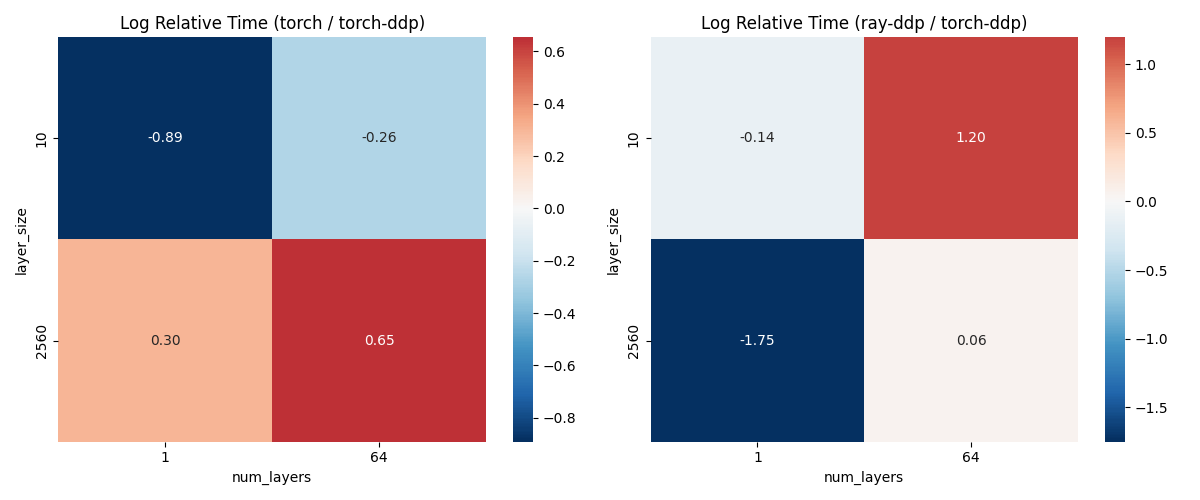
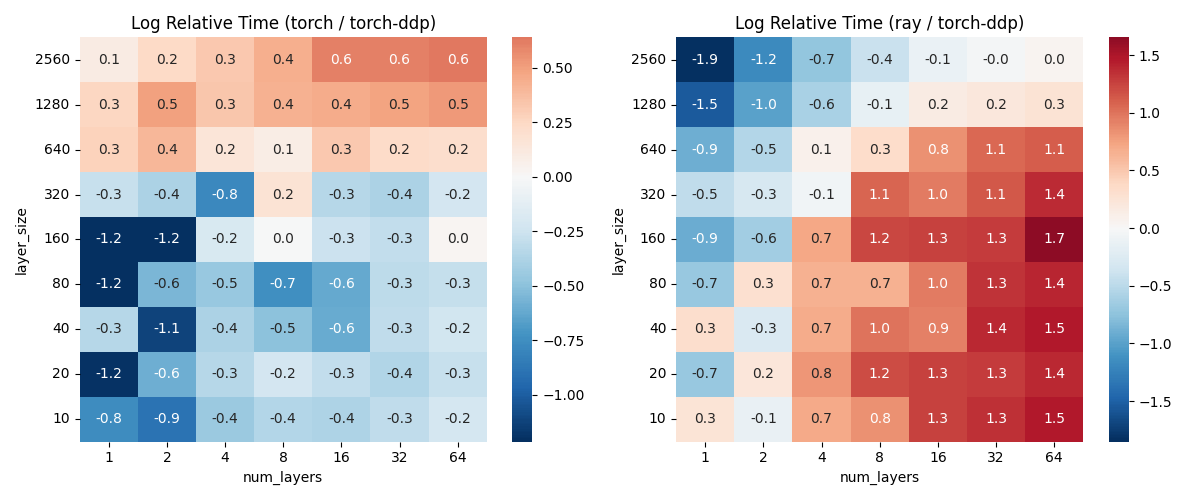
refactor: Heatmap

diff --git a/python/ray/experimental/ddp/src/scripts/plot_heatmap.py b/python/ray/experimental/ddp/src/scripts/plot_heatmap.py
@@ -35,15 +35,31 @@ plt.figure(figsize=(12, 5))
 plt.subplot(1, 2, 1)
 pivot_torch = df.pivot(
     index="layer_size", columns="num_layers", values="relative_torch"
+).sort_index(ascending=False)
+sns.heatmap(
+    pivot_torch,
+    annot=True,
+    fmt=".1f",
+    cmap="RdBu_r",
+    center=0,
 )
-sns.heatmap(pivot_torch, annot=True, fmt=".2f", cmap="RdBu_r", center=0)
 plt.title("Log Relative Time (torch / torch-ddp)")
+plt.yticks(rotation=0)
 
 # Table 2: relative_ray
 plt.subplot(1, 2, 2)
-pivot_ray = df.pivot(index="layer_size", columns="num_layers", values="relative_ray")
-sns.heatmap(pivot_ray, annot=True, fmt=".2f", cmap="RdBu_r", center=0)
-plt.title("Log Relative Time (ray-ddp / torch-ddp)")
+pivot_ray = df.pivot(
+    index="layer_size", columns="num_layers", values="relative_ray"
+).sort_index(ascending=False)
+sns.heatmap(
+    pivot_ray,
+    annot=True,
+    fmt=".1f",
+    cmap="RdBu_r",
+    center=0,
+)
+plt.title("Log Relative Time (ray / torch-ddp)")
+plt.yticks(rotation=0)
 
 plt.tight_layout()
 plt.savefig(f"{args['output_path']}/heatmap.png")
